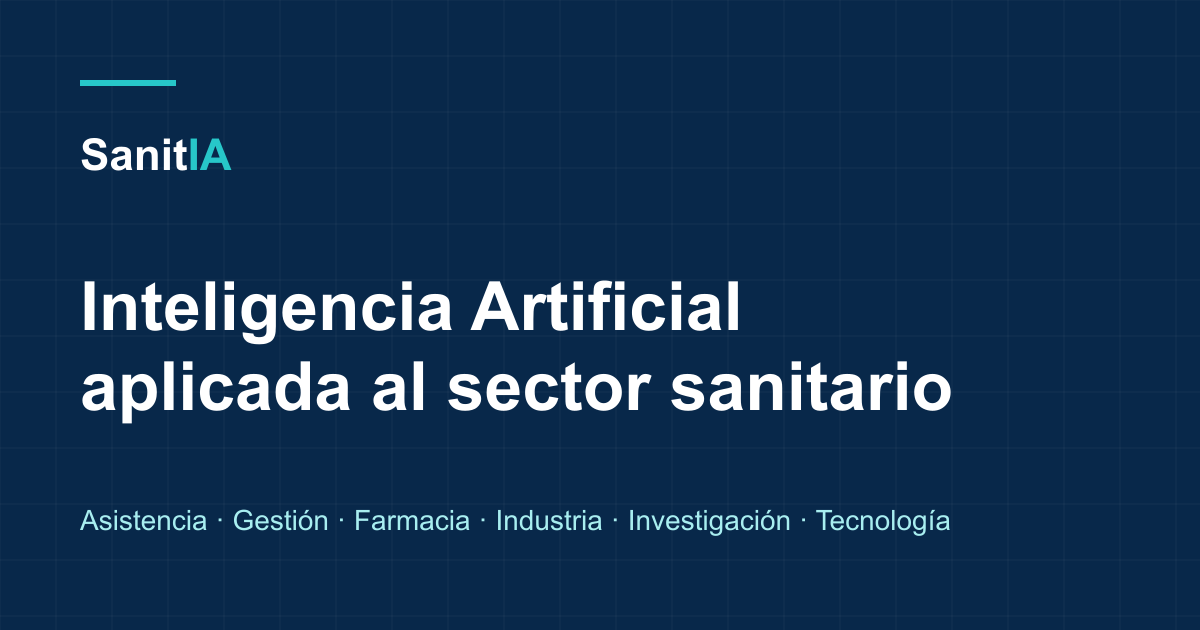
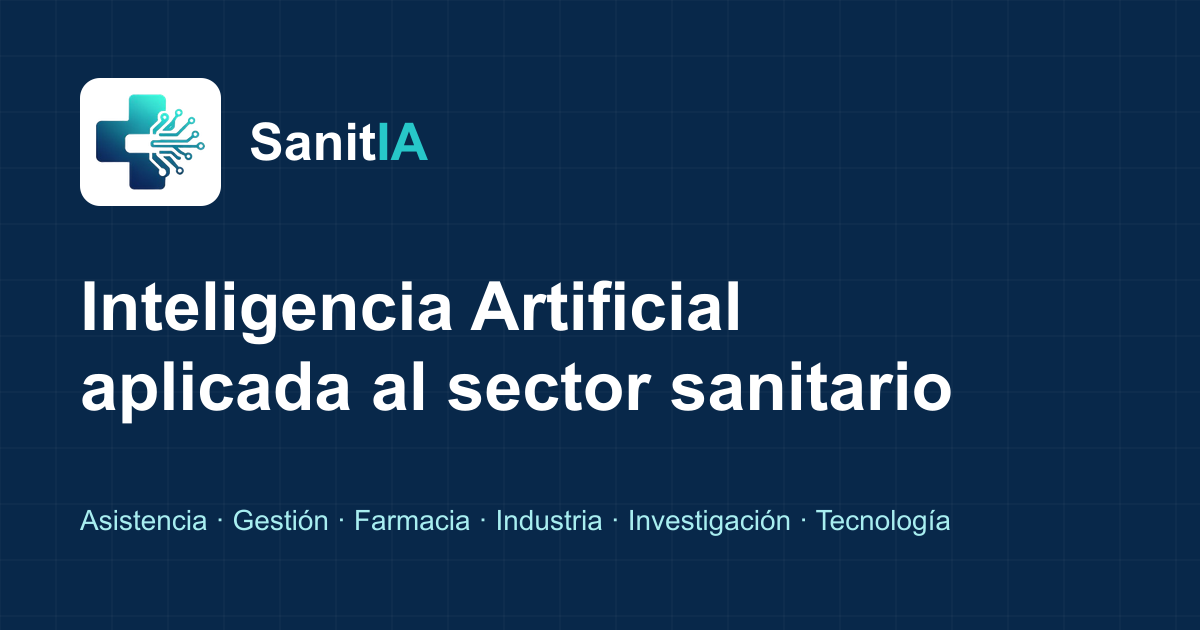
Integra el logotipo de SanitIA
Símbolo (cruz + circuitos) extraído del icono facilitado, sin el marco
de icono de app, junto al nombre en texto en cabecera y pie. En el pie
va sobre una pastilla blanca para contrastar con el fondo oscuro.
Favicons, icono de 192 px, apple-touch-icon e imagen Open Graph
generados a partir del mismo símbolo.

Changed region(s): [[0.0617, 0.1206, 0.37, 0.3317]]

diff --git a/README.md b/README.md
@@ -90,7 +90,10 @@ Editar `src/data/credibility.ts`. Los bloques solo aparecen en la Home cuando la
 
 ### Logotipo
 
-`src/components/Logo.astro` muestra provisionalmente el nombre en texto. Sustituir por el SVG oficial.
+`src/components/Logo.astro` combina el símbolo (`src/assets/brand/sanitia-symbol.png`) con el nombre en
+texto. El símbolo se extrajo del icono facilitado (`sanitia-icon-original.jpg`, 249×231 px); conviene
+sustituirlo por el original en SVG o PNG de alta resolución. Favicons e imagen Open Graph en `public/`
+se generan a partir del mismo símbolo.
 
 ## Despliegue en docker-server
 
